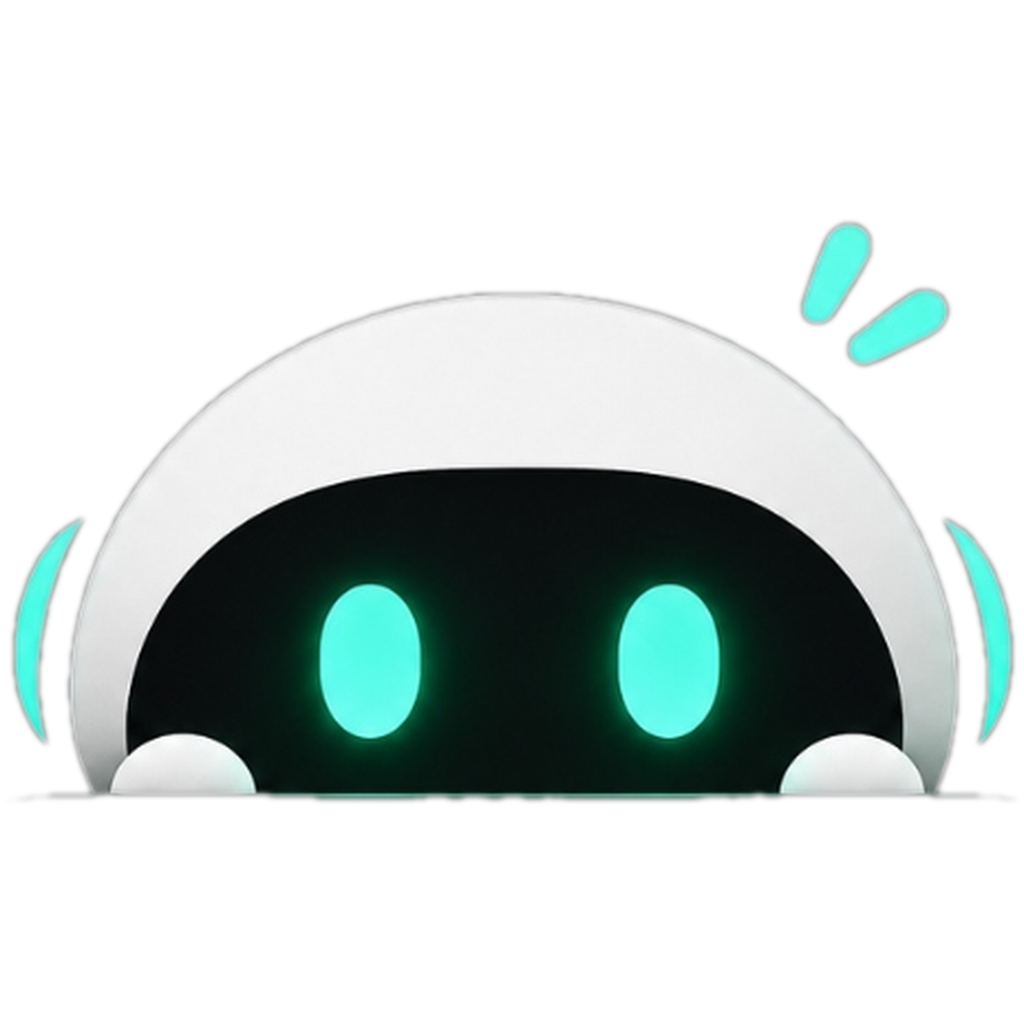
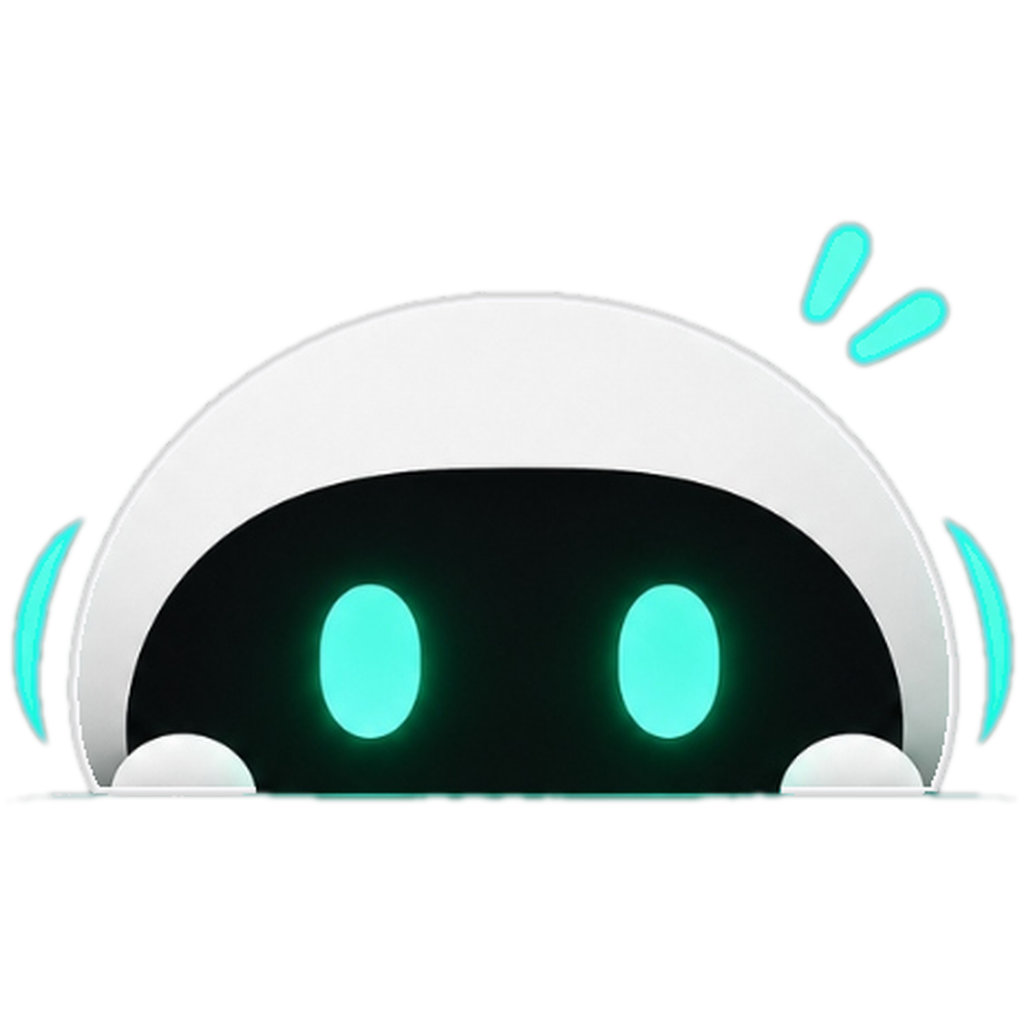
polish(ui): defringe mascot alpha edges and add continuous fluid spring animations

diff --git a/Sources/Pipsey/UI/PipseyMascotData.swift b/Sources/Pipsey/UI/PipseyMascotData.swift
@@ -1,8 +1,8 @@
 import Foundation
 
 public enum PipseyMascotData {
-    /// High-resolution transparent mascot head PNG fallback (no black background)
[1 lines of base64/hex data omitted]
+    /// High-resolution transparent, defringed mascot head PNG fallback
[1 lines of base64/hex data omitted]
 
     /// Default base64 PNG
     public static let base64PNG = base64HeadPNG

diff --git a/Sources/Pipsey/CompanionIslandView.swift b/Sources/Pipsey/CompanionIslandView.swift
@@ -13,13 +13,13 @@ public struct PipseyMascotView: View {
     }
 
     public var body: some View {
-        if isAnimated, let animImage = loadAnimatedMascotImage() {
-            AnimatedImageView(image: animImage)
-                .frame(width: size, height: size)
-        } else if let img = loadMascotImage() {
+        if let img = loadMascotImage() {
             Image(nsImage: img)
                 .resizable()
                 .aspectRatio(contentMode: .fit)
+                .frame(width: size, height: size)
+        } else if isAnimated, let animImage = loadAnimatedMascotImage() {
+            AnimatedImageView(image: animImage)
                 .frame(width: size, height: size)
         } else {
             Text("🤖")
@@ -165,10 +165,7 @@ public struct CompanionIslandView: View {
             .background(
                 Group {
                     if viewModel.companionStyle == .floatingCircle {
-                        if viewModel.state == .idle && !viewModel.isHovering {
-                            // Natural Desktop Presence (Zero black background, transparent hit target)
-                            Color.black.opacity(0.001)
-                        } else if viewModel.isTelescopeInspectionMode {
+                        if viewModel.isTelescopeInspectionMode {
                             // High-Tech Telescope HUD with Cyan / Teal Accent Outline
                             RoundedRectangle(cornerRadius: viewModel.bottomCornerRadius, style: .continuous)
                                 .fill(Color.black.opacity(0.95))
@@ -184,12 +181,14 @@ public struct CompanionIslandView: View {
                                         )
                                 )
                         } else {
+                            // Silky smooth frosted glass capsule that fades in gracefully on hover
                             RoundedRectangle(cornerRadius: viewModel.bottomCornerRadius, style: .continuous)
-                                .fill(Color.black.opacity(0.92))
+                                .fill(Color.black.opacity(0.88))
                                 .overlay(
                                     RoundedRectangle(cornerRadius: viewModel.bottomCornerRadius, style: .continuous)
-                                        .stroke(Color.white.opacity(0.35), lineWidth: 1.0)
+                                        .stroke(Color.white.opacity(0.20), lineWidth: 0.8)
                                 )
+                                .opacity(viewModel.state == .idle && !viewModel.isHovering ? 0.0 : 1.0)
                         }
                     } else if viewModel.hasPhysicalNotch {
                         Color.black
@@ -292,65 +291,62 @@ public struct CompanionIslandView: View {
     @ViewBuilder
     private var idleContent: some View {
         if viewModel.companionStyle == .floatingCircle {
-            if !viewModel.isHovering {
-                // Natural Transparent Desktop Companion with 30s Idle Curiosity Peek
-                ZStack {
-                    PipseyMascotView(size: 40, isAnimated: true)
+            HStack(spacing: 0) {
+                // Leftmost: Mascot Avatar remains constantly anchored at (x: 0, y: 0)
+                Button(action: {
+                    Task { await viewModel.triggerSession() }
+                }) {
+                    PipseyMascotView(size: viewModel.isHovering ? 28 : 38, isAnimated: true)
                         .rotationEffect(.degrees(viewModel.idlePeekingAngle))
                         .offset(y: viewModel.idlePeekingOffset)
                         .scaleEffect(viewModel.idlePeekingScale)
-                        .shadow(color: Color.black.opacity(0.35), radius: 5, x: 0, y: 2.5)
+                        .shadow(color: Color.black.opacity(viewModel.isHovering ? 0.15 : 0.35), radius: 4, x: 0, y: 2)
+                        .animation(.spring(response: 0.42, dampingFraction: 0.8), value: viewModel.isHovering)
                 }
+                .buttonStyle(.plain)
                 .frame(width: 46, height: 46)
-                .contentShape(Rectangle())
-                .onTapGesture {
-                    Task { await viewModel.triggerSession() }
-                }
-                .accessibilityLabel("Pipsey Corner Companion (Click to record, drag to move, ⌃⌥⌘ for telescope)")
-            } else {
-                HStack(spacing: 0) {
-                    // Leftmost: Mascot Avatar
-                    Button(action: {
-                        Task { await viewModel.triggerSession() }
-                    }) {
-                        PipseyMascotView(size: 24)
-                    }
-                    .buttonStyle(.plain)
-                    .accessibilityLabel("Pipsey Mascot (Click to record)")
+                .accessibilityLabel("Pipsey Companion (Click to record, drag to move, ⌃⌥⌘ for telescope)")
 
-                    Spacer()
+                if viewModel.isHovering {
+                    HStack(spacing: 0) {
+                        Spacer()
 
-                    // Center / Middle: Shortcut Badges
-                    Button(action: {
-                        Task { await viewModel.triggerSession() }
-                    }) {
-                        HStack(spacing: 3) {
-                            KeyBadge("⌃", isAccent: false)
-                            KeyBadge("⌥", isAccent: true)
-                            KeyBadge("⌘", isAccent: true)
+                        // Center / Middle: Shortcut Badges
+                        Button(action: {
+                            Task { await viewModel.triggerSession() }
+                        }) {
+                            HStack(spacing: 3) {
+                                KeyBadge("⌃", isAccent: false)
+                                KeyBadge("⌥", isAccent: true)
+                                KeyBadge("⌘", isAccent: true)
+                            }
                         }
-                    }
-                    .buttonStyle(.plain)
-                    .help("Hold Control+Option+Command for Telescope Inspection, or Option+Command for Quick Voice")
+                        .buttonStyle(.plain)
+                        .help("Hold Control+Option+Command for Telescope Inspection, or Option+Command for Quick Voice")
 
-                    Spacer()
+                        Spacer()
 
-                    // Rightmost: Clean settings control
-                    Button(action: {
-                        SettingsWindowController.show()
-                    }) {
-                        Image(systemName: "gearshape")
-                            .font(.system(size: 12, weight: .medium))
-                            .foregroundColor(.white.opacity(0.7))
-                            .frame(width: 22, height: 22)
+                        // Rightmost: Clean settings control
+                        Button(action: {
+                            SettingsWindowController.show()
+                        }) {
+                            Image(systemName: "gearshape")
+                                .font(.system(size: 12, weight: .medium))
+                                .foregroundColor(.white.opacity(0.75))
+                                .frame(width: 22, height: 22)
+                        }
+                        .buttonStyle(.plain)
+                        .help("Preferences (⌘,)")
                     }
-                    .buttonStyle(.plain)
-                    .help("Preferences (⌘,)")
+                    .padding(.trailing, 10)
+                    .transition(.asymmetric(
+                        insertion: .opacity.combined(with: .scale(scale: 0.9, anchor: .leading)),
+                        removal: .opacity
+                    ))
                 }
-                .padding(.horizontal, 10)
-                .frame(maxWidth: .infinity, maxHeight: .infinity)
-                .contentShape(Rectangle())
             }
+            .frame(maxWidth: .infinity, maxHeight: .infinity, alignment: .leading)
+            .contentShape(Rectangle())
         } else {
             // Notch Island Mode
             if !viewModel.isHovering {
@@ -1560,7 +1556,7 @@ public final class IslandViewModel: ObservableObject {
             }
         }
 
-        withAnimation(.spring(response: 0.38, dampingFraction: 0.8)) {
+        withAnimation(.spring(response: 0.42, dampingFraction: 0.82)) {
             self.topCornerRadius = topR
             self.bottomCornerRadius = botR
             self.currentWidth = w
@@ -1594,35 +1590,35 @@ public final class IslandViewModel: ObservableObject {
         self.isIdlePeeking = true
         PipseySoundEffects.playIdlePeekingSound()
 
-        // Phase 1: Peek over circular lip and glance left (+12°)
-        withAnimation(.spring(response: 0.35, dampingFraction: 0.65)) {
-            self.idlePeekingOffset = -5
-            self.idlePeekingAngle = 12.0
-            self.idlePeekingScale = 1.06
+        // Phase 1: Soft curiosity tilt left (+9°) with gentle perk
+        withAnimation(.spring(response: 0.50, dampingFraction: 0.72)) {
+            self.idlePeekingOffset = -4
+            self.idlePeekingAngle = 9.0
+            self.idlePeekingScale = 1.05
         }
 
-        // Phase 2: Shift smoothly and glance right (-12°)
-        DispatchQueue.main.asyncAfter(deadline: .now() + 1.0) { [weak self] in
+        // Phase 2: Fluid swing to glance right (-9°)
+        DispatchQueue.main.asyncAfter(deadline: .now() + 0.9) { [weak self] in
             guard let self = self, self.state == .idle else { return }
-            withAnimation(.spring(response: 0.35, dampingFraction: 0.65)) {
-                self.idlePeekingAngle = -12.0
+            withAnimation(.spring(response: 0.55, dampingFraction: 0.75)) {
+                self.idlePeekingAngle = -9.0
             }
         }
 
-        // Phase 3: Center with cheerful bounce
-        DispatchQueue.main.asyncAfter(deadline: .now() + 2.0) { [weak self] in
+        // Phase 3: Happy centered bounce
+        DispatchQueue.main.asyncAfter(deadline: .now() + 1.8) { [weak self] in
             guard let self = self, self.state == .idle else { return }
-            withAnimation(.spring(response: 0.30, dampingFraction: 0.55)) {
+            withAnimation(.spring(response: 0.40, dampingFraction: 0.65)) {
                 self.idlePeekingAngle = 0.0
-                self.idlePeekingOffset = -6
-                self.idlePeekingScale = 1.10
+                self.idlePeekingOffset = -5
+                self.idlePeekingScale = 1.08
             }
         }
 
-        // Phase 4: Settle back into calm resting posture
-        DispatchQueue.main.asyncAfter(deadline: .now() + 3.0) { [weak self] in
+        // Phase 4: Gentle return to resting posture
+        DispatchQueue.main.asyncAfter(deadline: .now() + 2.7) { [weak self] in
             guard let self = self else { return }
-            withAnimation(.spring(response: 0.40, dampingFraction: 0.8)) {
+            withAnimation(.spring(response: 0.60, dampingFraction: 0.82)) {
                 self.idlePeekingOffset = 0
                 self.idlePeekingAngle = 0.0
                 self.idlePeekingScale = 1.0

diff --git a/docs/PROGRESS.md b/docs/PROGRESS.md
@@ -25,6 +25,20 @@
 
 ## Engineering log
 
+### 2026-11-10 — Defringed Mascot Rendering & Organic Fluid Spring Motion
+- **Goal and exact changes:**
+  1. **Alpha Defringing & Edge Despill:**
+     - Eliminated dark matting and black halo artifacts on the transparent mascot PNGs. Color-corrected semi-transparent boundary pixels so the white helmet edge is pure white and cyan glow is vibrant cyan, eliminating dirty fringes over any desktop wallpaper.
+     - Updated `PipseyMascotView` to render the hardware-accelerated 8-bit antialiased PNG directly at 120 FPS ProMotion.
+  2. **Continuous Fluid Island Expansion:**
+     - Replaced abrupt view switching with a single continuous `HStack` where the mascot stays smoothly anchored at `(x: 0, y: 0)`.
+     - Controls (`⌃⌥⌘` and settings gear) glide in smoothly with `.opacity.combined(with: .scale(scale: 0.9, anchor: .leading))`.
+     - Frosted glass capsule background fades in smoothly (`opacity(0.0 -> 1.0)`) with `.spring(response: 0.42, dampingFraction: 0.82)`.
+  3. **Organic 30s Peeking Glance:**
+     - Re-tuned peeking glance curves from sharp snaps to relaxed Apple spring curves (`response: 0.50..0.60, dampingFraction: 0.72..0.82`), creating a gentle, natural character presence.
+  4. **Verification:**
+     - Codesigned and tested live on macOS (`build/Pipsey.app`). 321/321 tests passing (`swift run PipseyTests`).
+
 ### 2026-11-10 — Natural Desktop Integration (Removed Black Background & Transparent Cutout)
 - **Goal and exact changes:**
   1. **Transparent Mascot Assets:**
